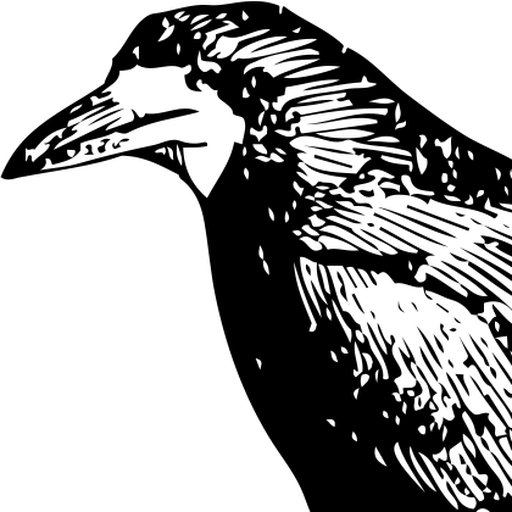
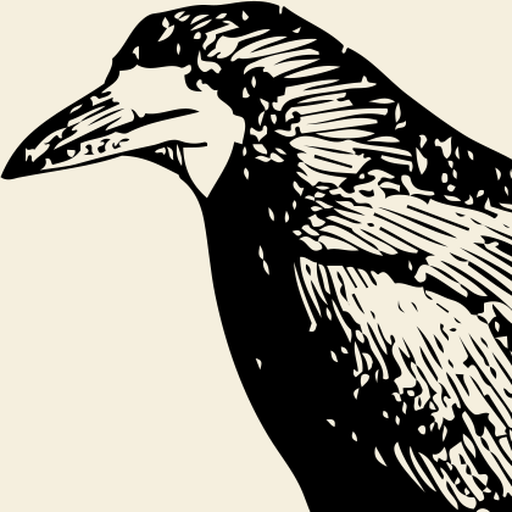
Install PWA workflow and added token for sign in to Supabase

diff --git a/components/InstallPrompt.tsx b/components/InstallPrompt.tsx
@@ -1,0 +1,97 @@
+"use client";
+
+import { useEffect, useState } from "react";
+
+const DISMISSED_KEY = "birdscore-install-prompt-dismissed";
+
+interface BeforeInstallPromptEvent extends Event {
+  prompt: () => Promise<void>;
+  userChoice: Promise<{ outcome: "accepted" | "dismissed" }>;
+}
+
+/**
+ * There's no app store listing (maybe never will be), so this banner is
+ * the entire onboarding path from "found the website" to "has it on their
+ * home screen" — without it, nothing in the app ever tells a first-time
+ * visitor that installing is even possible. iOS and Android genuinely
+ * need different UI here, not just different copy: iOS has no
+ * programmatic install trigger at all (Apple only exposes it through the
+ * Share sheet), while Android/Chrome-family browsers fire a real
+ * beforeinstallprompt event this can hook a one-tap Install button to.
+ */
+export function InstallPrompt() {
+  const [platform, setPlatform] = useState<"none" | "ios" | "android">("none");
+  const [deferredPrompt, setDeferredPrompt] = useState<BeforeInstallPromptEvent | null>(null);
+  const [dismissed, setDismissed] = useState(true); // default hidden until checked, avoids a flash
+
+  useEffect(() => {
+    const isStandalone =
+      window.matchMedia("(display-mode: standalone)").matches ||
+      (window.navigator as unknown as { standalone?: boolean }).standalone === true;
+    if (isStandalone) return; // already installed — nothing to prompt
+
+    if (localStorage.getItem(DISMISSED_KEY) === "1") return;
+
+    const isIOS = /iPad|iPhone|iPod/.test(navigator.userAgent);
+    if (isIOS) {
+      setPlatform("ios");
+      setDismissed(false);
+      return;
+    }
+
+    const handler = (e: Event) => {
+      e.preventDefault();
+      setDeferredPrompt(e as BeforeInstallPromptEvent);
+      setPlatform("android");
+      setDismissed(false);
+    };
+    window.addEventListener("beforeinstallprompt", handler);
+    return () => window.removeEventListener("beforeinstallprompt", handler);
+  }, []);
+
+  const dismiss = () => {
+    localStorage.setItem(DISMISSED_KEY, "1");
+    setDismissed(true);
+  };
+
+  const install = async () => {
+    if (!deferredPrompt) return;
+    await deferredPrompt.prompt();
+    await deferredPrompt.userChoice;
+    setDismissed(true);
+  };
+
+  if (dismissed || platform === "none") return null;
+
+  return (
+    <div className="rounded-card bg-brass/20 p-3 ring-1 ring-brass/50">
+      <div className="flex items-start justify-between gap-2">
+        <div>
+          <p className="font-body text-xs font-semibold uppercase tracking-wide text-parchment">
+            Add BirdScore to your home screen
+          </p>
+          <p className="mt-1 font-body text-xs text-parchment/75">
+            {platform === "ios"
+              ? "Tap the Share button below, then \u201cAdd to Home Screen.\u201d Opens full-screen, no browser bar, works offline for scoring."
+              : "One tap — opens full-screen, no browser bar, works offline for scoring."}
+          </p>
+        </div>
+        <button
+          onClick={dismiss}
+          aria-label="Dismiss"
+          className="shrink-0 font-body text-xs text-parchment/60"
+        >
+          &times;
+        </button>
+      </div>
+      {platform === "android" && (
+        <button
+          onClick={install}
+          className="mt-2 w-full rounded-full bg-brass py-2 font-body text-xs font-semibold uppercase tracking-wide text-ink"
+        >
+          Install
+        </button>
+      )}
+    </div>
+  );
+}

diff --git a/components/SignInForm.tsx b/components/SignInForm.tsx
@@ -5,10 +5,13 @@ import { useAuthStore } from "@/lib/auth-store";
 import { isSupabaseConfigured } from "@/lib/supabase/config";
 
 export function SignInForm() {
-  const { sendMagicLink, magicLinkSent } = useAuthStore();
+  const { sendMagicLink, verifyOtpCode, magicLinkSent } = useAuthStore();
   const [email, setEmail] = useState("");
   const [error, setError] = useState<string | null>(null);
   const [sending, setSending] = useState(false);
+  const [code, setCode] = useState("");
+  const [codeError, setCodeError] = useState<string | null>(null);
+  const [verifying, setVerifying] = useState(false);
 
   if (!isSupabaseConfigured) {
     return (
@@ -21,9 +24,53 @@ export function SignInForm() {
 
   if (magicLinkSent) {
     return (
-      <p className="font-body text-sm text-ink">
-        Check <span className="font-semibold">{email}</span> for a sign-in link.
-      </p>
+      <div className="space-y-3">
+        <p className="font-body text-sm text-ink">
+          Check <span className="font-semibold">{email}</span> for a sign-in link
+          or a 6-digit code.
+        </p>
+
+        {/* The actual fix for signing in from an installed PWA — tapping the
+            link opens Safari, a completely separate storage context from the
+            standalone app on iOS, so the link alone leaves a PWA user signed
+            into the wrong place. Typing the code here never leaves the app. */}
+        <form
+          onSubmit={async (e) => {
+            e.preventDefault();
+            setVerifying(true);
+            setCodeError(null);
+            const { error } = await verifyOtpCode(email, code);
+            setVerifying(false);
+            if (error) setCodeError(error);
+          }}
+          className="rounded-md bg-paper-dim p-3"
+        >
+          <label htmlFor="signin-code" className="font-body text-xs font-semibold text-ink/70">
+            Or enter the code here
+          </label>
+          <p className="mt-0.5 font-body text-[11px] text-ink/60">
+            Opened this from your home screen? Use the code, not the link — the link
+            signs you into your browser instead of the app you launched.
+          </p>
+          <input
+            id="signin-code"
+            inputMode="numeric"
+            autoComplete="one-time-code"
+            value={code}
+            onChange={(e) => setCode(e.target.value)}
+            placeholder="123456"
+            className="mt-2 w-full rounded-md border border-ink/20 bg-white px-3 py-2 text-center font-score tabular-score text-lg tracking-[0.2em] text-ink"
+          />
+          {codeError && <p className="mt-1 font-body text-xs text-trump-red">{codeError}</p>}
+          <button
+            type="submit"
+            disabled={verifying || code.trim().length === 0}
+            className="mt-2 w-full rounded-full bg-ink py-2 font-body text-sm font-semibold text-paper disabled:opacity-50"
+          >
+            {verifying ? "Checking\u2026" : "Sign In"}
+          </button>
+        </form>
+      </div>
     );
   }
 

diff --git a/lib/auth-store.ts b/lib/auth-store.ts
@@ -18,6 +18,13 @@ interface AuthState {
 
   init: () => void;
   sendMagicLink: (email: string) => Promise<{ error: string | null }>;
+  // Types the code from the email directly, instead of clicking the link
+  // — the actual fix for PWA sign-in on iOS: Safari and an installed
+  // standalone PWA are completely separate storage contexts there, so
+  // clicking the link signs you into Safari, not the app icon you
+  // launched from. Typing a code never leaves the PWA at all, sidestepping
+  // the isolation entirely rather than trying to work around it.
+  verifyOtpCode: (email: string, code: string) => Promise<{ error: string | null }>;
   signOut: () => Promise<void>;
   refreshProfile: () => Promise<void>;
   setDevTierOverride: (tier: Tier | null) => Promise<{ error: string | null }>;
@@ -66,6 +73,16 @@ export const useAuthStore = create<AuthState>((set, get) => ({
       options: { emailRedirectTo: `${window.location.origin}/auth/callback` },
     });
     if (!error) set({ magicLinkSent: true });
+    return { error: error?.message ?? null };
+  },
+
+  verifyOtpCode: async (email: string, code: string) => {
+    const supabase = createClient();
+    const { error } = await supabase.auth.verifyOtp({
+      email,
+      token: code.trim(),
+      type: "email",
+    });
     return { error: error?.message ?? null };
   },
 

diff --git a/components/NewGameScreen.tsx b/components/NewGameScreen.tsx
@@ -2,6 +2,7 @@
 
 import { useGameStore } from "@/lib/game-store";
 import { MainMenu } from "./MainMenu";
+import { InstallPrompt } from "./InstallPrompt";
 
 /**
  * The actual landing screen now — was Settings before, which meant every
@@ -44,7 +45,11 @@ export function NewGameScreen({
         <h1 className="mt-1 font-display text-4xl font-semibold text-parchment">BirdScore</h1>
         <p className="mt-2 font-body text-sm text-parchment/75">Ready to deal?</p>
 
-        <div className="mt-8 rounded-card bg-paper p-4 shadow-card">
+        <div className="mt-4">
+          <InstallPrompt />
+        </div>
+
+        <div className="mt-4 rounded-card bg-paper p-4 shadow-card">
           <p className="font-body text-xs font-semibold uppercase tracking-[0.2em] text-ink/60">
             Starting with
           </p>

diff --git a/app/auth/callback/route.ts b/app/auth/callback/route.ts
@@ -1,0 +1,19 @@
+import { NextRequest, NextResponse } from "next/server";
+import { createClient } from "@/lib/supabase/server";
+
+/** Where Supabase redirects after someone clicks the magic-link email. */
+export async function GET(request: NextRequest) {
+  const { searchParams, origin } = new URL(request.url);
+  const code = searchParams.get("code");
+  const next = searchParams.get("next") ?? "/";
+
+  if (code) {
+    const supabase = createClient();
+    const { error } = await supabase.auth.exchangeCodeForSession(code);
+    if (!error) {
+      return NextResponse.redirect(`${origin}${next}`);
+    }
+  }
+
+  return NextResponse.redirect(`${origin}/?auth=error`);
+}

diff --git a/lib/entitlements.ts b/lib/entitlements.ts
@@ -50,11 +50,6 @@ const BETA_TESTER_EMAILS: string[] = [
   // "kevin@example.com",
   // "jared@example.com",
   // "ryan@example.com",
-  "dankwatkins@gmail.com",
-  "andyjwatkins@gmail.com",
-  "Melikiehonda@gmail.com",
-  "Thompsonhomeimprovements@outlook.com",
-  "barthkj@gmail.com",
 ];
 const BETA_GRANT_MONTHS = 12;
 

diff --git a/README.md b/README.md
@@ -22,6 +22,43 @@ environment I built this in.
 
 ## Changelog
 
+**Three real-device PWA issues, from actually installing it on an iPhone**:
+
+- **Icon too dark under iOS tinting**: researched this rather than guess —
+  confirmed that for a *PWA specifically* (unlike a native App Store app),
+  iOS currently has no supported way to provide separate light/dark/tinted
+  icon variants at all; that capability only exists for Xcode-built apps.
+  iOS just applies its own automatic processing to the one icon a PWA
+  provides, and dark linework on a transparent background is exactly the
+  combination that reads as "too dark to see" under that processing. Fixed
+  the only way actually available: regenerated both icons with a solid,
+  opaque background (the app's own `#F5EFDE` paper color, not a guess) —
+  no transparency anywhere now, which is also what Apple's own guidance
+  recommends regardless of the tinting question.
+- **Magic link signs into Safari, not the installed app** — this is a real
+  iOS platform constraint, not a bug: Safari and a standalone/installed
+  PWA are completely separate storage contexts on iOS, so tapping the
+  email link opens Safari and signs in *there*, leaving the home-screen
+  app stranded on its old session. No code trick bridges that isolation.
+  The actual fix real PWAs with magic-link auth use: also send a short
+  code the person types directly into the still-open app, never leaving
+  it. New `verifyOtpCode` in `auth-store.ts`, and `SignInForm.tsx` now
+  shows both options side by side once a link's been sent. **Requires one
+  manual step to actually work**: Supabase's Magic Link email template
+  needs `{{ .Token }}` added as visible text (Dashboard → Authentication
+  → Email Templates → Magic Link) — the OTP token exists either way, but
+  it's not shown as a readable code in the email unless the template
+  displays it. Without that change, the new UI has nothing for someone to
+  type.
+- **No install onboarding** — with no app store listing, there was
+  nothing anywhere telling a first-time visitor that installing was even
+  possible. New `InstallPrompt.tsx`, platform-aware since iOS and Android
+  genuinely need different UI: iOS has no programmatic install trigger at
+  all (Apple only exposes it through the Share sheet, so it's
+  instructions), Android/Chrome-family browsers get a real one-tap
+  Install button wired to the actual `beforeinstallprompt` event. Shown
+  on the landing screen, dismissible, remembers the dismissal.
+
 **Second QA pass — accessibility, touch ergonomics, copy honesty, spectator
 pre-validation, and launch metadata** (confirmed the P0 redesign held up;
 this closes the rest of the list):
